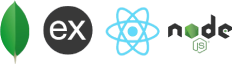
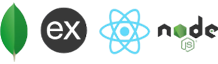
Services Responsiveness

diff --git a/src/components/pages/Home/Services.js b/src/components/pages/Home/Services.js
@@ -1,33 +1,41 @@
 import React from 'react';
 import Container from './../../shared/Container';
-import reactLogo from '../../../images/technology/reactjs.png';
+import reactLogo from '../../../images/technology/reactjs-sm.png';
 import mernLogo from '../../../images/technology/MERN.png';
 import wordpressLogo from '../../../images/technology/wordpress.png';
+import Service from './Service';
 
 const Services = () => {
+    const services = [
+        {
+            id: 0,
+            icon: reactLogo,
+            title: 'Frontend Application',
+            desc: 'Interactive frontend application using HTML5, CSS3, JavaScript, TailwindCSS, Bootstrap and React JS. It is possible to create an application from scratch. I have good knowledge about UI/UX.'
+        },
+        {
+            id: 1,
+            icon: mernLogo,
+            title: 'MERN Stack Application',
+            desc: 'Responsive MERN Stack Application using React JS, Node JS, Express JS and MongoDB. I also prefer to use Firebase and JWT (JSON Web Token) for Authentication.'
+        },
+        {
+            id: 2,
+            icon: wordpressLogo,
+            title: 'WordPress Website',
+            desc: 'Content Management System with most popular CMS platform (WordPress) using Elementor Page Builder and Premium WordPress Theme.'
+        },
+    ];
+
     return (
-        <div className='pt-12 pb-28'>
+        <div id='services' className='pt-5 pb-16 md:pt-10 md:pb-28 lg:pt-12 lg:pb-28'>
             <Container>
-                <h2 className='text-5xl text-secondary font-bold mb-12'>My Services</h2>
+                <h2 className='text-2xl md:text-4xl lg:text-5xl text-center md:text-left lg:text-left text-secondary font-bold mb-8 md:mb-10 lg:mb-12'>My Services</h2>
 
-                <div className="flex gap-8">
-                    <div className="w-4/12 service-card p-8">
-                        <img className='mb-3 h-[64px] py-1' src={reactLogo} alt="" />
-                        <h3 className='text-xl mb-3 font-semibold'>Frontend Application</h3>
-                        <p className='text-[15px] text-slate-600 leading-relaxed'>Interactive frontend application using HTML5, CSS3, JavaScript, TailwindCSS, Bootstrap and React JS. It is possible to create an application from scratch. I have good knowledge about UI/UX.</p>
-                    </div>
-
-                    <div className="w-4/12 service-card p-8">
-                        <img className='mb-3 h-[60px] py-2' src={mernLogo} alt="" />
-                        <h3 className='text-xl mb-3 font-semibold'>MERN Stack Application</h3>
-                        <p className='text-[15px] text-slate-600 leading-relaxed'>Responsive MERN Stack Application using React JS, Node JS, Express JS and MongoDB. I also prefer to use Firebase and JWT (JSON Web Token) for Authentication.</p>
-                    </div>
-
-                    <div className="w-4/12 service-card p-8">
-                        <img className='mb-3 h-[64px] py-1' src={wordpressLogo} alt="" />
-                        <h3 className='text-xl mb-3 font-semibold'>WordPress Website</h3>
-                        <p className='text-[15px] text-slate-600 leading-relaxed'>Content Management System with most popular CMS platform (WordPress) using Elementor Page Builder and Premium WordPress Theme.</p>
-                    </div>
+                <div className="grid grid-cols-1 md:grid-cols-2 lg:grid-cols-3 gap-8">
+                    {
+                        services.map(service => <Service key={service.id} icon={service.icon} title={service.title} desc={service.desc} />)
+                    }
                 </div>
             </Container>
         </div>

diff --git a/src/components/shared/Header.js b/src/components/shared/Header.js
@@ -1,12 +1,23 @@
 import React from 'react';
 import Container from './Container';
 import { Link } from 'react-router-dom';
+import { HashLink } from 'react-router-hash-link';
 
 const Header = () => {
+    const scrollWithOffset = (el) => {
+        const yCoordinate = el.getBoundingClientRect().top + window.pageYOffset;
+        const yOffset = -80;
+        window.scrollTo({ top: yCoordinate + yOffset, behavior: 'smooth' });
+    }
+
     const menu = <>
-        <li><Link to="/">Home</Link></li>
-        <li><Link to='/about'>About</Link></li>
-        <li><Link to='/skills'>Skills</Link></li>
+        <li><HashLink smooth to="/#">Home</HashLink></li>
+        <li>
+            <HashLink smooth to="/#about" scroll={el => scrollWithOffset(el)}>About</HashLink>
+        </li>
+        <li>
+            <HashLink smooth to="/#services" scroll={el => scrollWithOffset(el)}>Services</HashLink>
+        </li>
         <li><Link to='/portfolio'>Portfolio</Link></li>
         <li><Link to='/contact'>Contact</Link></li>
     </>;

diff --git a/src/App.js b/src/App.js
@@ -1,7 +1,6 @@
 import { Routes, Route } from 'react-router-dom';
 import Home from './components/pages/Home/Home';
 import Header from './components/shared/Header';
-import About from './components/pages/About/About';
 import Portfolio from './components/pages/Portfolio/Portfolio';
 import './App.css';
 
@@ -12,7 +11,6 @@ function App() {
 
       <Routes>
         <Route path="/" element={<Home />} />
-        <Route path="/about" element={<About />} />
         <Route path="/portfolio" element={<Portfolio />} />
       </Routes>
     </div>

diff --git a/src/components/pages/Home/Service.js b/src/components/pages/Home/Service.js
@@ -1,0 +1,13 @@
+import React from 'react';
+
+const Service = ({ icon, title, desc }) => {
+    return (
+        <div className="service-card p-6 md:p-8 lg:p-8">
+            <img className='h-[50px] md:h-[55px] lg:h-[60px] py-1 mb-2 md:mb-3 lg:mb-3' src={icon} alt={title} />
+            <h3 className='text-lg md:text-xl lg:text-xl mb-2 md:mb-3 lg:mb-3 font-semibold'>{title}</h3>
+            <p className='text-sm md:text-[15px] lg:text-[15px] text-slate-600 leading-relaxed'>{desc}</p>
+        </div>
+    );
+};
+
+export default Service;

diff --git a/src/components/pages/Home/Features.js b/src/components/pages/Home/Features.js
@@ -82,7 +82,7 @@ const Features = () => {
     ]
 
     return (
-        <section className='bg-slate-100 pt-16 pb-16 md:pt-20 md:pb-20 relative text-center md:text-left'>
+        <section id='about' className='bg-slate-100 pt-16 pb-16 md:pt-20 md:pb-20 relative text-center md:text-left'>
             <Container>
                 <div className="flex flex-col md:flex-row  gap-5 md:gap-8">
                     <div className="w-full md:w-3/12">

diff --git a/src/index.js b/src/index.js
@@ -4,11 +4,13 @@ import { BrowserRouter } from "react-router-dom";
 import './index.css';
 import App from './App';
 import reportWebVitals from './reportWebVitals';
+import ScrollToTop from './components/shared/ScrollToTop';
 
 const root = ReactDOM.createRoot(document.getElementById('root'));
 root.render(
   <React.StrictMode>
     <BrowserRouter>
+      <ScrollToTop />
       <App />
     </BrowserRouter>
   </React.StrictMode>

diff --git a/src/components/shared/ScrollToTop.js b/src/components/shared/ScrollToTop.js
@@ -1,0 +1,14 @@
+import { useEffect } from "react"
+import { useLocation } from 'react-router-dom';
+
+const ScrollToTop = () => {
+    const { pathname } = useLocation();
+
+    useEffect(() => {
+        window.scrollTo(0, 0);
+    }, [pathname]);
+
+    return null;
+}
+
+export default ScrollToTop;
